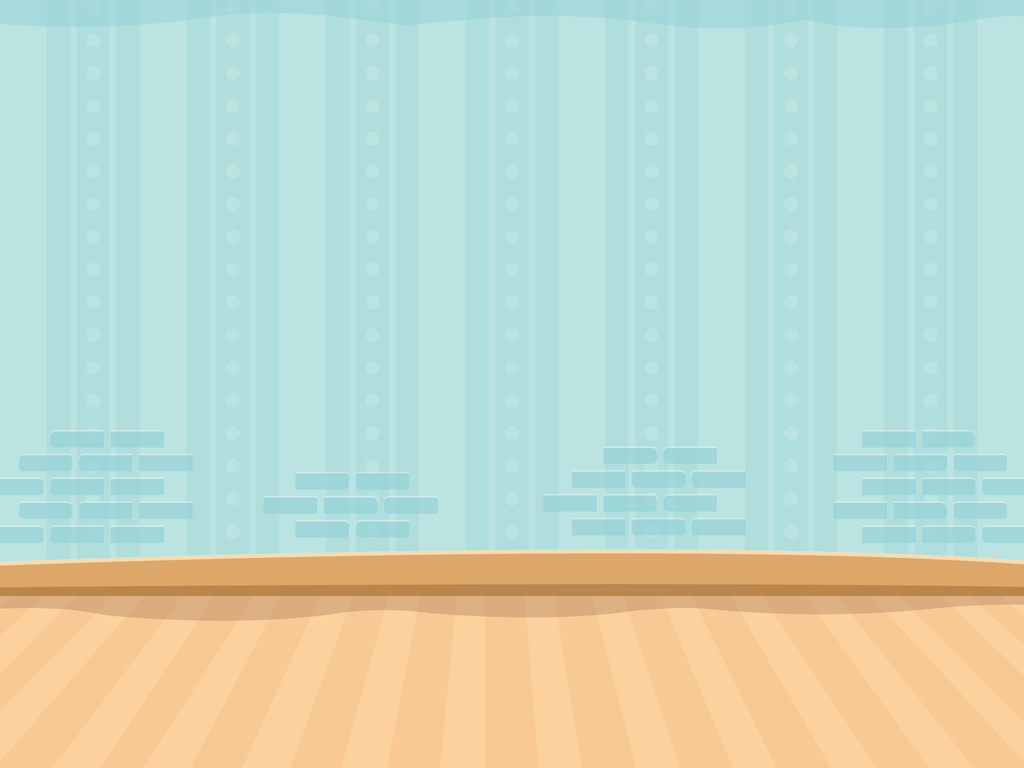
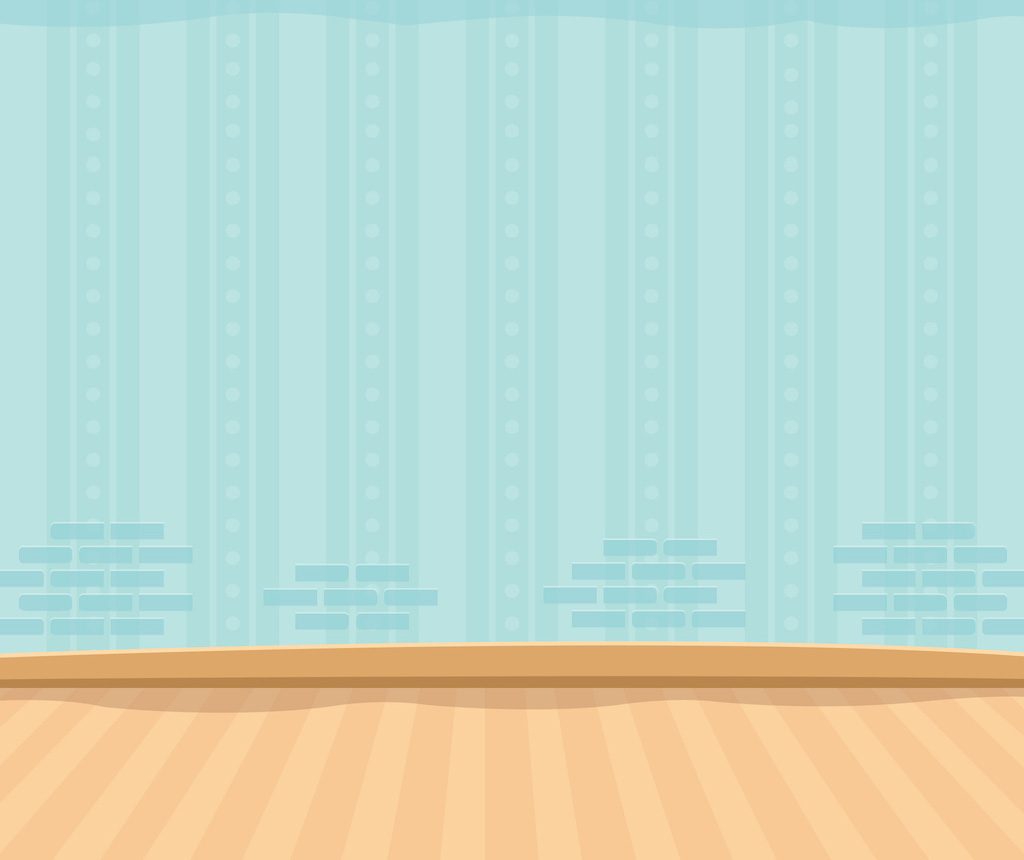
Refine HOME HUD

Changed region(s): [[0.0, 0.5625, 1.0, 0.8438]]

diff --git a/src/layers/Alphabet/SpecifyGoalHudLayer.js b/src/layers/Alphabet/SpecifyGoalHudLayer.js
@@ -5,6 +5,7 @@ var SpecifyGoalHudLayer = HudLayer.extend({
     _currentSpecifyGoal: 0,
 
     _showClock: true,
+    _whiteBg: null,
 
     ctor: function(layer, timeForScene, currencyType) {
         if (currencyType)
@@ -19,33 +20,35 @@ var SpecifyGoalHudLayer = HudLayer.extend({
         bg.x = this._clockBg.x + this._clockBg.width/2 + bg.width/2 + HUD_BAR_DISTANCE;
         bg.y = this._clockBg.y;
         this.addChild(bg);
-        this._bg = bg;
+        this._whiteBg = bg;
     },
 
     addGoalImage: function(imageName) {
         var specifyGoalSprite = new cc.Sprite(imageName);
-        specifyGoalSprite.scale = this._bg.height * 2/specifyGoalSprite.height;
+        specifyGoalSprite.scale = this._whiteBg.height * 2/specifyGoalSprite.height;
         specifyGoalSprite.x = 0;
-        specifyGoalSprite.y = this._bg.height/2 - 5;
-        this._bg.addChild(specifyGoalSprite); 
+        specifyGoalSprite.y = this._whiteBg.height/2 - 5;
+        this._whiteBg.addChild(specifyGoalSprite); 
 
         var text = this._currentSpecifyGoal + "/" + this._totalSpecifyGoal;
         this._specifyGoalLabel = new cc.LabelBMFont(text, res.HudFont_fnt);
-        this._specifyGoalLabel.x = this._bg.width/2 + 10;
-        this._specifyGoalLabel.y = this._bg.height/2;
-        this._bg.addChild(this._specifyGoalLabel);
+        this._specifyGoalLabel.x = this._whiteBg.width/2 + 10;
+        this._specifyGoalLabel.y = this._whiteBg.height/2;
+        this._whiteBg.addChild(this._specifyGoalLabel);
     },
 
     addGoalLabel: function() {
         var cupImage = new cc.Sprite("#cup.png");
+        cupImage.scale = CURRENCY_SCALE;
         cupImage.x = 0;
-        cupImage.y = this._bg.height/2 - 5;
-        this._bg.addChild(cupImage);
+        cupImage.y = this._whiteBg.height/2 - 5;
+        this._whiteBg.addChild(cupImage);
 
         var label = new cc.LabelBMFont(0 + "", res.HudFont_fnt);
-        label.x = this._bg.width/2 + 10;
-        label.y = this._bg.height - 17;
-        this._bg.addChild(label);
+        label.scale = CURRENCY_SCALE;
+        label.x = this._whiteBg.width/2 + 10;
+        label.y = this._whiteBg.height/2;
+        this._whiteBg.addChild(label);
 
         this._specifyGoalLabel = label;
     },

diff --git a/src/layers/MainApp/HomeScreenLayer.js b/src/layers/MainApp/HomeScreenLayer.js
@@ -1,3 +1,4 @@
+var HOME_DOOR_OFFSET_Y = 260;
 var HomeScreenLayer = cc.Layer.extend({
     _bg: null,
     _scale: null,
@@ -5,8 +6,9 @@ var HomeScreenLayer = cc.Layer.extend({
         // body...
         this._super();
         var bg = new cc.Sprite("res/SD/BG_home.jpg");
+        bg.anchorY = 0;
         bg.x = cc.winSize.width/2;
-        bg.y = cc.winSize.height/2;
+        bg.y = -132;
         bg.scale = cc.winSize.width / bg.width;
         cc.log("Scale: " + bg.scale);
         this._scale = bg.scale;
@@ -53,7 +55,7 @@ var HomeScreenLayer = cc.Layer.extend({
         // door.anchorX = 1;
         door.anchorY = 0;
         door.x = cc.winSize.width/2;
-        door.y = cc.winSize.height/2 - 220 * this._scale;
+        door.y = cc.winSize.height/2 - HOME_DOOR_OFFSET_Y * this._scale;
         door.scale = this._scale;
         this.addChild(door);
         door.addClickEventListener(function(){
@@ -88,7 +90,7 @@ var HomeScreenLayer = cc.Layer.extend({
         door.anchorX = 0;
         door.anchorY = 0;
         door.x = cc.winSize.width/2 + door.width/2 + 40 * this._scale;
-        door.y = cc.winSize.height/2 - 220 * this._scale;
+        door.y = cc.winSize.height/2 - HOME_DOOR_OFFSET_Y * this._scale;
         door.scale = this._scale;
         this.addChild(door);
         door.addClickEventListener(function(){
@@ -120,7 +122,7 @@ var HomeScreenLayer = cc.Layer.extend({
         door.anchorX = 1;
         door.anchorY = 0;
         door.x = cc.winSize.width/2 - door.width/2 - 40 * this._scale;
-        door.y = cc.winSize.height/2 - 220 * this._scale;
+        door.y = cc.winSize.height/2 - HOME_DOOR_OFFSET_Y * this._scale;
         door.scale = this._scale;
         this.addChild(door);
         door.addClickEventListener(function(){

diff --git a/src/layers/Alphabet/HudLayer.js b/src/layers/Alphabet/HudLayer.js
@@ -303,8 +303,9 @@ var HudLayer = cc.Layer.extend({
             gold.runAction(cc.sequence(
                 cc.delayTime(flyTime-0.1),
                 cc.callFunc(function() {
+                    cc.log("prepare calling addCoinEffect");
+                    self.addCoinEffect();
                     CurrencyManager.getInstance().incCoin(amount);
-                    self.addCoinEffect.bind(this);
                 })
             ));
         };
@@ -313,6 +314,7 @@ var HudLayer = cc.Layer.extend({
     },
 
     addCoinEffect: function() {
+        cc.log("HudLayer addCoinEffect");
         var coinScale = this._coin.scale;
         this._coin.runAction(cc.sequence(
             cc.scaleTo(0.15, 0.9 * coinScale),
